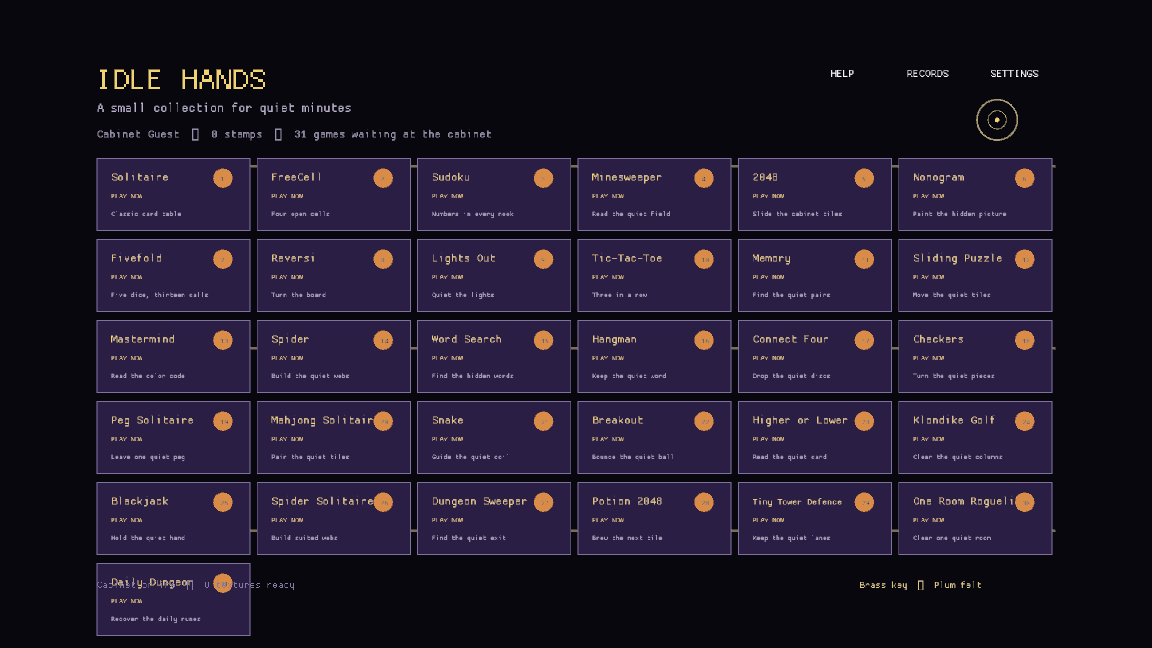
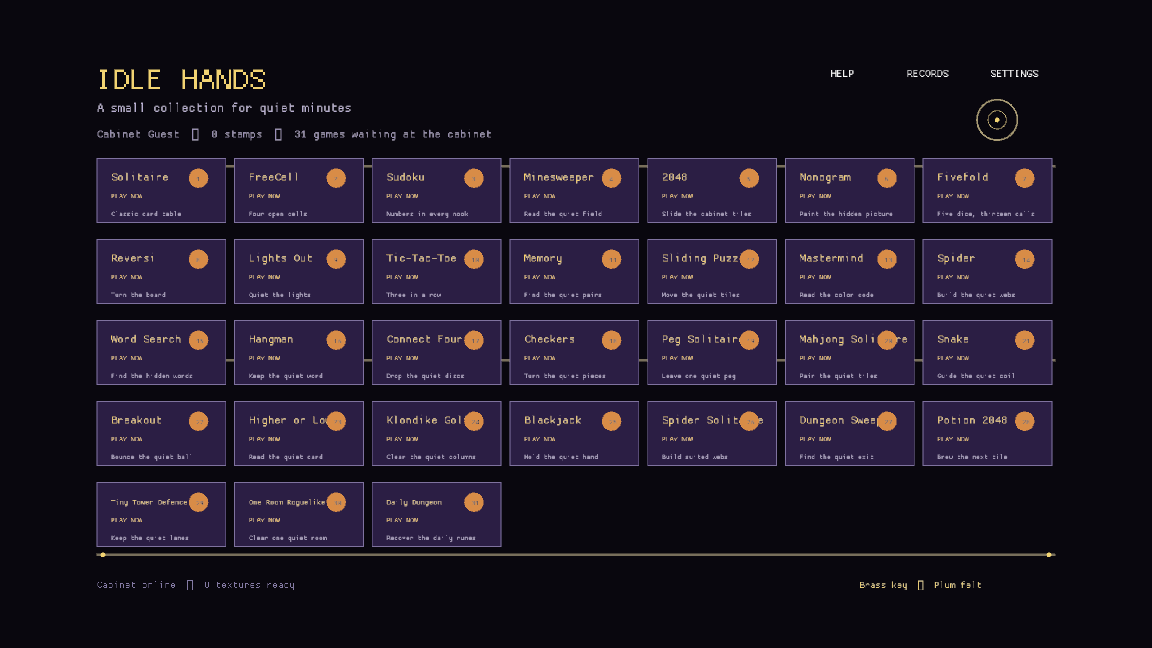
The cabinet makes room for every quiet drawer (desktop and portrait cabinet reflow)
The cabinet now gives all 31 quiet games a dedicated card across desktop and portrait layouts. Desktop uses seven columns with a taller shelf, portrait uses four columns, and the longest new titles use fitted labels so the footer stays clear. Refresh the cabinet verification captures and catalog thumbnail to record the complete post-launch shelf.

Changed region(s): [[0.0625, 0.2469, 0.9375, 0.9877], [0.0938, 0.6481, 0.125, 0.679]]

diff --git a/src/ui.rs b/src/ui.rs
@@ -351,7 +351,7 @@ fn draw_cabinet(state: &AppState, data: &GameData, loaded: usize) {
     let accent = cosmetics::cabinet_accent(state.cabinet_decoration);
     text("IDLE HANDS", 46., 70., 48., accent);
     crate::cabinet_art::draw_header_motif(1160., 108., 24., accent);
-    crate::cabinet_art::draw_shelves(48., 165., 1184., 450., accent);
+    crate::cabinet_art::draw_shelves(48., 165., 1184., 480., accent);
     text(
         "A small collection for quiet minutes",
         48.,
@@ -397,8 +397,11 @@ fn draw_cabinet(state: &AppState, data: &GameData, loaded: usize) {
             GameId::ALL[i].title(),
             r.x + 18.,
             r.y + 28.,
-            if GameId::ALL[i] == GameId::TinyTowerDefence {
-                14.
+            if matches!(
+                GameId::ALL[i],
+                GameId::TinyTowerDefence | GameId::OneRoomRoguelike | GameId::DailyDungeon
+            ) {
+                10.
             } else {
                 18.
             },
@@ -454,9 +457,9 @@ fn draw_cabinet(state: &AppState, data: &GameData, loaded: usize) {
     let _ = data;
 }
 fn cabinet_rect(i: usize) -> Rect {
-    let col = i % 6;
-    let row = i / 6;
-    Rect::new(48. + col as f32 * 198., 155. + row as f32 * 100., 190., 90.)
+    let col = i % 7;
+    let row = i / 7;
+    Rect::new(48. + col as f32 * 170., 155. + row as f32 * 100., 160., 80.)
 }
 fn draw_2048(state: &AppState) {
     let g = &state.game;

diff --git a/src/responsive_ui.rs b/src/responsive_ui.rs
@@ -29,9 +29,9 @@ fn text(value: &str, x: f32, y: f32, size: f32, color: Color) {
 
 pub fn cabinet_rect(index: usize) -> Rect {
     Rect::new(
-        6. + (index % 3) as f32 * 118.,
-        94. + (index / 3) as f32 * 59.,
-        112.,
+        6. + (index % 4) as f32 * 98.,
+        94. + (index / 4) as f32 * 59.,
+        92.,
         53.,
     )
 }
@@ -55,7 +55,14 @@ pub fn draw_cabinet(state: &AppState, _data: &GameData, loaded: usize) {
             game.title(),
             rect.x + 10.,
             rect.y + 15.,
-            10.,
+            if matches!(
+                game,
+                GameId::TinyTowerDefence | GameId::OneRoomRoguelike | GameId::DailyDungeon
+            ) {
+                8.
+            } else {
+                9.
+            },
             Color::new(0.98, 0.82, 0.42, 1.),
         );
         text(
